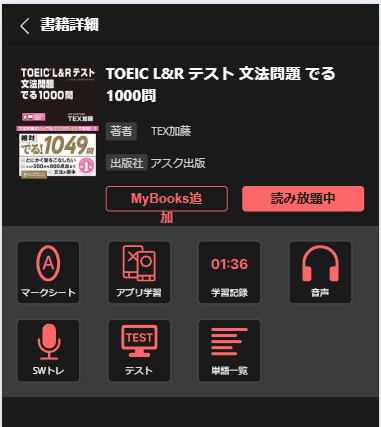
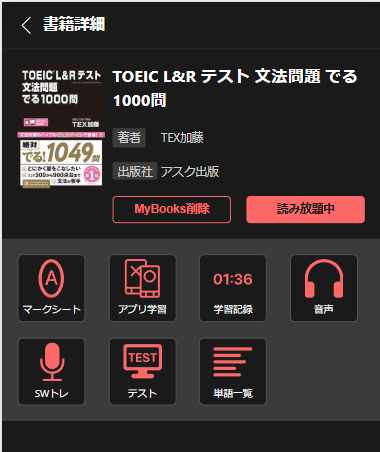
fix button title

diff --git a/src/components/BookDetails/book-details.style.ts b/src/components/BookDetails/book-details.style.ts
@@ -66,12 +66,13 @@ export const ButtonGroup = styled.div`
 `;
 
 export const StyledButton = styled.button<{ $isPrimary?: boolean }>`
-  padding: 0.2rem 1.5rem;
+  padding: 0.2rem 1rem;
   width: 100%;
   max-width: 250px;
+
   height: 28px;
   text-align: center;
-  font-size: 0.9rem;
+  font-size: 12px;
   font-weight: bold;
   border: 1px solid
     ${({ $isPrimary, theme }) =>

diff --git a/README.md b/README.md
@@ -1,8 +1,8 @@
 ## Preview
 
-| ![PC View Image 1](./src/assets/readMePrev/list-pc.pngassets/readMePrev/) |       ![PC View Image 2](./src/assets/readMePrev/details-pc.png)        |
-| :-----------------------------------------------------------------------: | :---------------------------------------------------------------------: |
-|      ![Mobile View Image 1](./src/assets/readMePrev/list-mobile.png)      | ![Mobile View Details page](./src/assets/readMePrev/details-mobile.png) |
+|     ![PC View Image 1](./src/assets/readMePrev/list-pc.png)     |       ![PC View Image 2](./src/assets/readMePrev/details-pc.png)        |
+| :-------------------------------------------------------------: | :---------------------------------------------------------------------: |
+| ![Mobile View Image 1](./src/assets/readMePrev/list-mobile.png) | ![Mobile View Details page](./src/assets/readMePrev/details-mobile.png) |
 
 ## How to start
 
